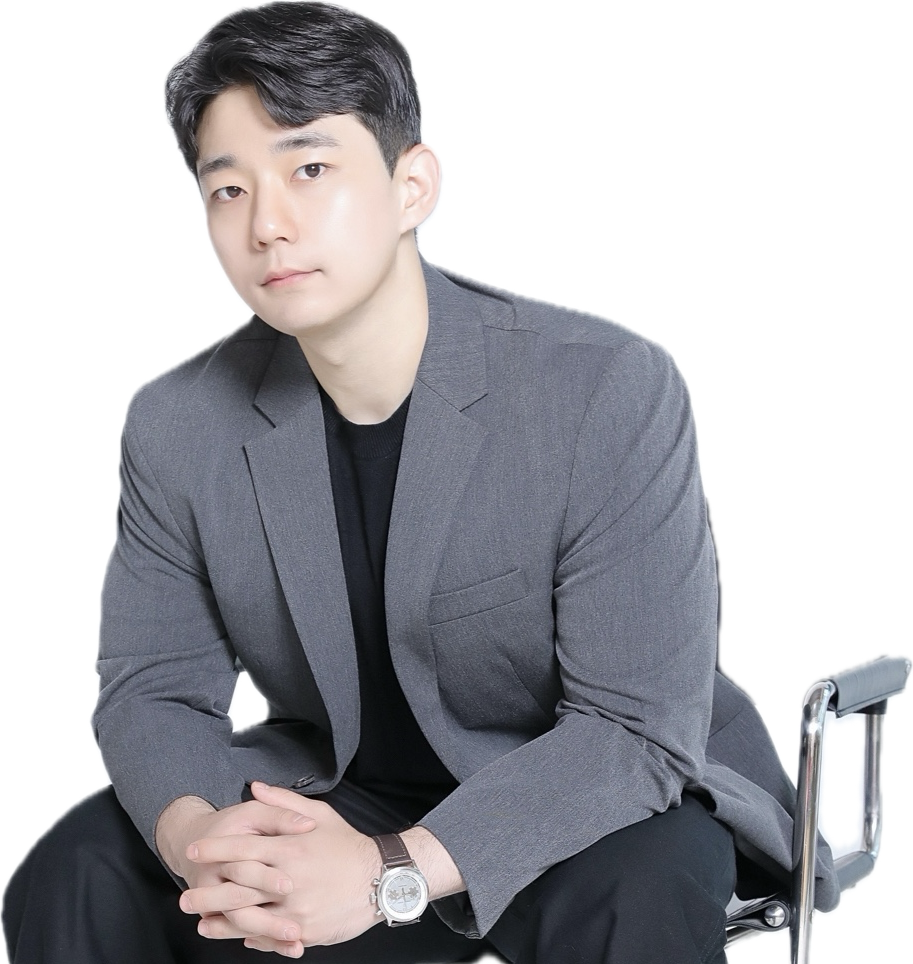
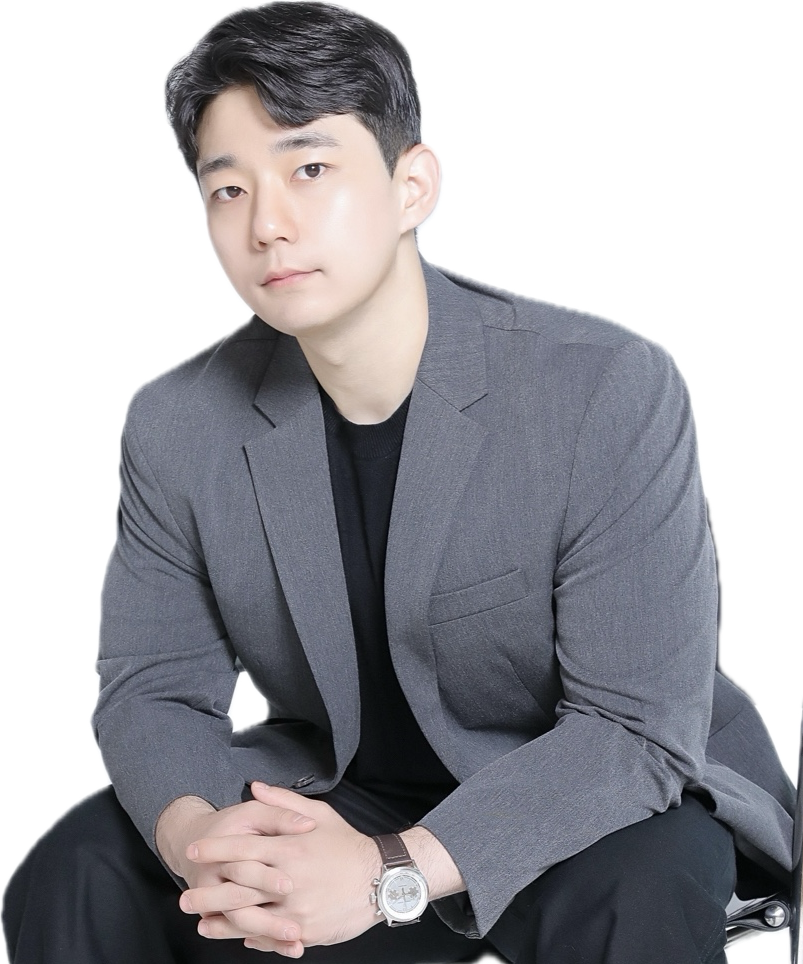
사진 우측 의자 크롭 + 배경 푸른 톤 시프트
(1) PNG 우측 12% 잘라내 의자(은색 팔걸이) 제거
- 913×964 → 803×964

(2) 배경 색상을 푸른색 계열로 전환
- --bg: #07091a (어두운 보라끼) → #061535 (딥 블루)
- --bg-soft: #0d1230 → #0c2156
- --bg-card: rgba(20,28,60,.55) → rgba(28,52,110,.45) (블루 톤 + 투명도)
- --border: rgba(76,196,255,.18) → rgba(125,220,255,.22) (블루 글로우 강화)
- --accent-strong: #5fd3ff → #7ddcff
- 페이지 배경 radial-gradient 톱 컬러 #131a3f → #163074
- 좌하단 푸른 글로우 레이어 추가
- 골드는 그대로 유지 — 푸른 배경에 강조점

diff --git a/app/auth_ui.py b/app/auth_ui.py
@@ -124,23 +124,24 @@ _LANDING_CSS = """
 @import url('https://fonts.googleapis.com/css2?family=Montserrat:wght@400;600;800;900&family=Cormorant+Garamond:ital,wght@1,500&family=Noto+Sans+KR:wght@400;500;700;900&display=swap');
 
 :root {
-  --bg: #07091a;
-  --bg-soft: #0d1230;
-  --bg-card: rgba(20, 28, 60, 0.55);
+  --bg: #061535;
+  --bg-soft: #0c2156;
+  --bg-card: rgba(28, 52, 110, 0.45);
   --accent: #4cc4ff;
-  --accent-strong: #5fd3ff;
+  --accent-strong: #7ddcff;
   --gold: #d2af6e;
   --gold-light: #f0cd87;
   --text: #e9ecf8;
-  --text-soft: #9aa3c4;
-  --border: rgba(76, 196, 255, 0.18);
+  --text-soft: #a6b2d4;
+  --border: rgba(125, 220, 255, 0.22);
 }
 
-/* 본 페이지 자체 다크화 */
+/* 본 페이지 자체 푸른 다크 */
 .stApp {
   background:
-    radial-gradient(ellipse at top, #131a3f 0%, transparent 55%),
-    radial-gradient(ellipse at bottom right, rgba(76,196,255,0.08) 0%, transparent 50%),
+    radial-gradient(ellipse at top, #163074 0%, transparent 55%),
+    radial-gradient(ellipse at bottom right, rgba(76, 196, 255, 0.12) 0%, transparent 50%),
+    radial-gradient(ellipse at bottom left, rgba(40, 90, 200, 0.10) 0%, transparent 55%),
     var(--bg) !important;
 }
 section[data-testid="stSidebar"] { display: none !important; }
